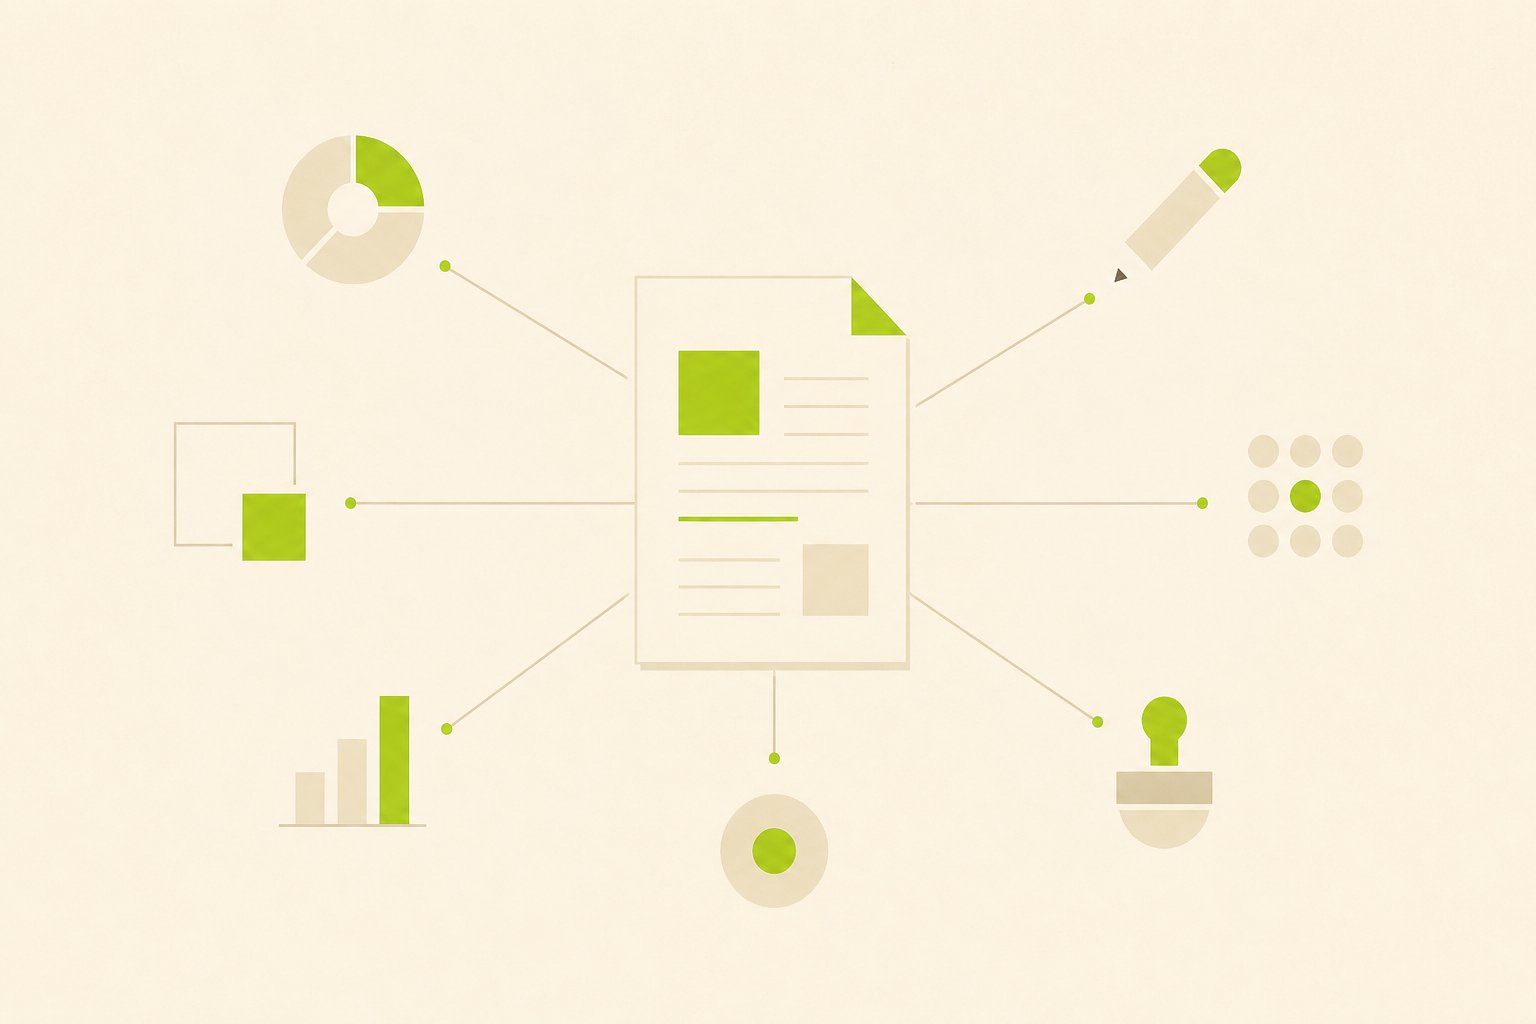
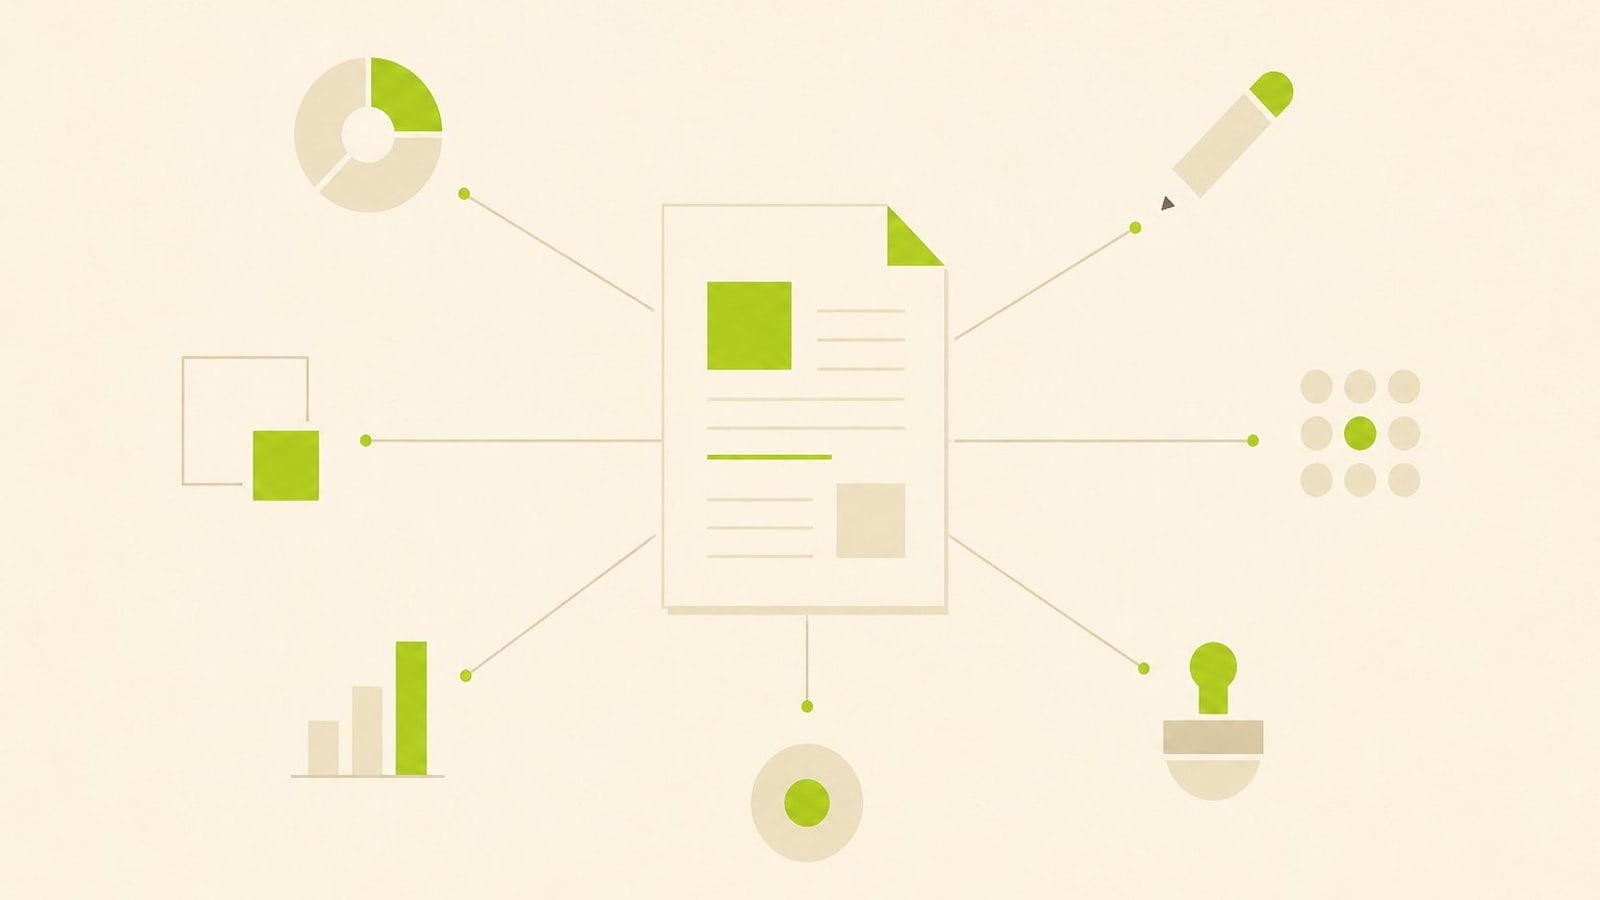
Обложки: приведение к 16:9 и защита от неверных пропорций
Моя ошибка в скрипте: для OpenAI был зашит размер 1536x1024 (3:2), потому что
модель принимает только фиксированные размеры. Правило проекта — картинка
рождается в пропорциях блока — при этом нарушалось, и браузер обрезал обложки
сам, срезая композицию.

- make-cover.mjs обрезает вывод провайдера до точного формата (sharp)
- scripts/fit-covers.mjs приводит уже существующие обложки, ключ не нужен
- check-posts.mjs проверяет пропорции и роняет сборку при расхождении
- четыре обложки приведены к 1600x900

Документация: как обрезать, и предупреждение, что проверки ловят формат,
но не смысл картинки — модель понимает абстракции буквально.

diff --git a/docs/editorial.md b/docs/editorial.md
@@ -155,7 +155,18 @@ npm run cover -- --slug my-post \
 - Не пытайтесь изобразить интерфейс или код буквально — получится нечитаемая каша. Работает абстракция: формы, схемы, метафора.
 - `--alt` пишется **по-русски** и описывает смысл картинки, а не стиль. Его читают скринридеры и поисковики.
 
-**Про формат.** Картинка генерируется сразу в тех пропорциях, в которых ляжет в блок. Если сгенерировать квадрат и вставить в карточку 16:10, браузер обрежет края и с картинки уедет центр композиции. Форматы описаны в `src/lib/images.ts`; для постов всегда `cover`.
+**Про формат.** Обложка обязана быть ровно 1600×900 (16:9) — это проверяется автоматически, и сборка упадёт, если пропорции другие.
+
+Модели изображений OpenAI отдают только свои фиксированные размеры (ближайший к 16:9 — это 1536×1024, то есть 3:2), поэтому скрипт сам обрезает результат по центру до нужного формата. Если картинка пришла не из скрипта — положили руками, поменялся формат в `src/lib/images.ts` — приведите её командой:
+
+```bash
+npm run covers:fit            # показать, что не так
+npm run covers:fit -- --write # обрезать по центру
+```
+
+После обрезки **посмотрите на картинку**: если с неё ушло важное, её надо перегенерировать, а не тянуть кропом.
+
+**Про смысл.** Модель понимает абстрактные слова буквально и часто не туда. Промпт «три слоя, соединённых линиями» дал эко-пейзаж с городом: «слои» она прочитала как ландшафтные. Проверяйте не только стиль, но и то, читается ли тема. Помогает добавить в промпт предметную привязку — `abstract diagram`, `schematic`, `no landscape, no buildings, no nature`.
 
 ---
 

diff --git a/AGENTS.md b/AGENTS.md
@@ -130,6 +130,7 @@ published: true            # true/false без кавычек
 | `<Partner id>` есть в `content/links.json` | Иначе ссылка ведёт в никуда |
 | Партнёрская ссылка → есть `<Disclosure />` | Требование честности перед читателем |
 | `cover` указывает на существующий файл | Иначе битая картинка |
+| Обложка ровно 1600×900 (16:9) | Иначе браузер обрежет её сам и с композиции уедет центр. Привести: `npm run covers:fit -- --write` |
 
 Предупреждения (не блокируют, но исправьте): нет обложки, нет `coverAlt`, текст короче нормы, нет подзаголовков, осиротевшая обложка от удалённого поста.
 
@@ -219,6 +220,17 @@ npm run lint
 ```
 
 Если меняли вёрстку — запустите `npm run dev` и посмотрите глазами на 375px и на десктопе.
+
+**Картинки смотрите глазами всегда.** Проверки ловят формат и размер, но не то, что изображено. Модель понимает абстракции буквально: промпт «три слоя, соединённых линиями» однажды дал эко-пейзаж с городом. Открывайте готовую обложку и спрашивайте себя, читается ли по ней тема статьи.
+
+## Полезные команды
+
+| Команда | Что делает |
+| --- | --- |
+| `npm run post -- list` | Все посты со статусами |
+| `npm run cover` | Сгенерировать обложку |
+| `npm run covers:fit` | Привести обложки к 1600×900 (ключ не нужен) |
+| `npm run qr` | Перегенерировать QR на телеграм |
 
 ---
 

diff --git a/CLAUDE.md b/CLAUDE.md
@@ -130,6 +130,7 @@ published: true            # true/false без кавычек
 | `<Partner id>` есть в `content/links.json` | Иначе ссылка ведёт в никуда |
 | Партнёрская ссылка → есть `<Disclosure />` | Требование честности перед читателем |
 | `cover` указывает на существующий файл | Иначе битая картинка |
+| Обложка ровно 1600×900 (16:9) | Иначе браузер обрежет её сам и с композиции уедет центр. Привести: `npm run covers:fit -- --write` |
 
 Предупреждения (не блокируют, но исправьте): нет обложки, нет `coverAlt`, текст короче нормы, нет подзаголовков, осиротевшая обложка от удалённого поста.
 
@@ -219,6 +220,17 @@ npm run lint
 ```
 
 Если меняли вёрстку — запустите `npm run dev` и посмотрите глазами на 375px и на десктопе.
+
+**Картинки смотрите глазами всегда.** Проверки ловят формат и размер, но не то, что изображено. Модель понимает абстракции буквально: промпт «три слоя, соединённых линиями» однажды дал эко-пейзаж с городом. Открывайте готовую обложку и спрашивайте себя, читается ли по ней тема статьи.
+
+## Полезные команды
+
+| Команда | Что делает |
+| --- | --- |
+| `npm run post -- list` | Все посты со статусами |
+| `npm run cover` | Сгенерировать обложку |
+| `npm run covers:fit` | Привести обложки к 1600×900 (ключ не нужен) |
+| `npm run qr` | Перегенерировать QR на телеграм |
 
 ---
 
